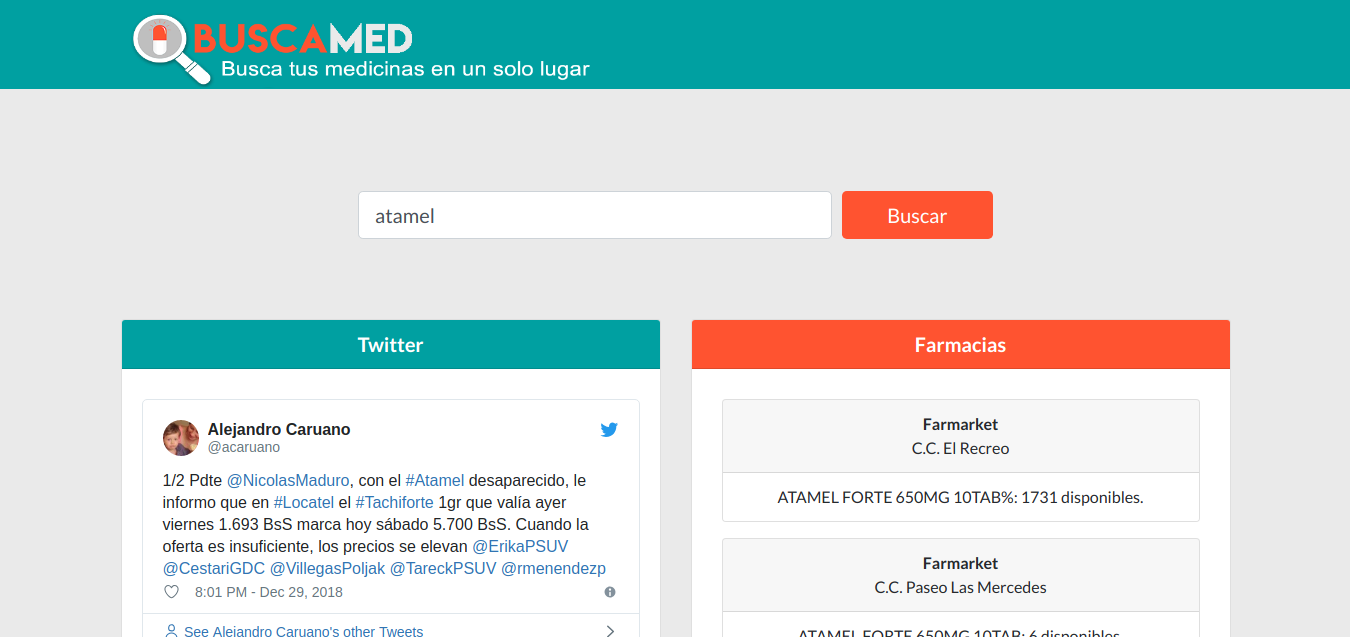
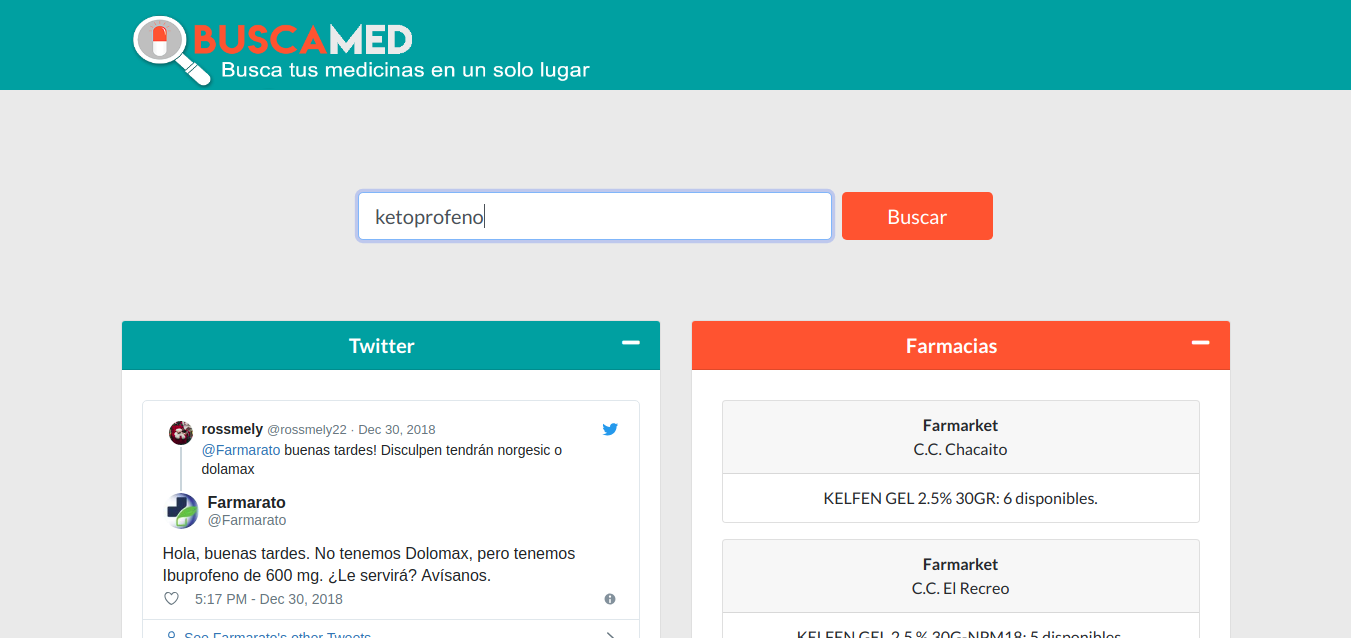
Agrega imagen y arregla links

diff --git a/docs/rest/views.md b/docs/rest/views.md
@@ -40,9 +40,9 @@ Función reemplazada por [buscaTwitter](#buscatwitter), que se basa en esta para
 
 **Versión 2.0**<br>
 Función que busca los Tweets asociados a una medicina y todos sus equivalentes en la BD.<br>
-Si consigue Tweets en la BD, revisa si el Tweet más reciente fue buscado hace menos tiempo que los minutos definidos en la variable del módulo de configuración ["TWEET_UPDATE"](/buscaMedServer/buscaMedServer/#settingspy).<br>
-Si fue buscado hace menos tiempo que dichos minutos, devuelve el query de la BD. En caso contrario, utiliza la función [threadingTweets](/classifier/classifier/#threadingtweets) del módulo *classifier* para buscar y clasificar Tweets a partir del id mas reciente de los Tweets en la BD.<br>
-Si no consigue Tweets en la BD, realiza la búsqueda con la función [threadingTweets](/classifier/classifier/#threadingtweets) mencionada previamente.<br>
+Si consigue Tweets en la BD, revisa si el Tweet más reciente fue buscado hace menos tiempo que los minutos definidos en la variable del módulo de configuración ["TWEET_UPDATE"](../../buscaMedServer/buscaMedServer/#settingspy).<br>
+Si fue buscado hace menos tiempo que dichos minutos, devuelve el query de la BD. En caso contrario, utiliza la función [threadingTweets](../../classifier/classifier/#threadingtweets) del módulo *classifier* para buscar y clasificar Tweets a partir del id mas reciente de los Tweets en la BD.<br>
+Si no consigue Tweets en la BD, realiza la búsqueda con la función [threadingTweets](../../classifier/classifier/#threadingtweets) mencionada previamente.<br>
 Recibe el nombre de una medicina, y devuelve una lista de Tweets y un booleano que define si se consiguió la medicina.
 
     def buscaTwitter(medName) -> (QuerySet<Tweet>, bool)
@@ -70,7 +70,7 @@ Función que busca el componente activo de un medicamento en los inventarios de 
 
 **Versión 2.0**<br>
 Clase que hereda de viewsets.ReadOnlyModelViewSet del módulo *viewsets* del Django Rest Framework. Define la tabla de la BD que mostrará y el serializador que convertira las filas de la tabla en JSON.<br>
-La función *list()* define la respuesta JSON a mostrar. Utiliza la función buscaTwitter y el serializador [TweetSerializer](/rest/serializers/#clase-tweetserializer).
+La función *list()* define la respuesta JSON a mostrar. Utiliza la función buscaTwitter y el serializador [TweetSerializer](../../rest/serializers/#clase-tweetserializer).
 
     class TweetViewSet(viewsets.ReadOnlyModelViewSet):
         queryset = Tweet.objects.all()
@@ -84,7 +84,7 @@ La función *list()* define la respuesta JSON a mostrar. Utiliza la función bus
 
 **Versión 2.0**<br>
 Clase que hereda de viewsets.ReadOnlyModelViewSet del módulo *viewsets* del Django Rest Framework. Define la tabla de la BD que mostrará y el serializador que convertira las filas de la tabla en JSON.<br>
-La función *list()* define la respuesta JSON a mostrar. Utiliza la función [retrieveInventory](#retrieveinventory) y el serializador [InventorySerializer](/stores/serializers/#clase-inventoryserializer).
+La función *list()* define la respuesta JSON a mostrar. Utiliza la función [retrieveInventory](#retrieveinventory) y el serializador [InventorySerializer](../../stores/serializers/#clase-inventoryserializer).
 
     class StoresViewSet(viewsets.ReadOnlyModelViewSet):
         queryset = store.ProductosPorTienda.objects.all()
@@ -97,7 +97,7 @@ La función *list()* define la respuesta JSON a mostrar. Utiliza la función [re
 #### Clase WebViewSet:
 
 **Versión 2.0**<br>
-Clase que hereda de viewsets.ViewSet del módulo *viewsets* del Django Rest Framework. No necesita definir una tabla en la BD ni un seralizador, porque las herramientas del módulo [WebCrawler](/webcrawler/webcrawler/) ya devuelven un objeto compatible con JSON.<br>
+Clase que hereda de viewsets.ViewSet del módulo *viewsets* del Django Rest Framework. No necesita definir una tabla en la BD ni un seralizador, porque las herramientas del módulo [WebCrawler](../../webcrawler/webcrawler/) ya devuelven un objeto compatible con JSON.<br>
 La función *list()* realiza las búsquedas, las concatena y las devuelve en la respuesta.
 
     class WebViewSet(viewsets.ViewSet):

diff --git a/docs/stores/js/homeSearch.md b/docs/stores/js/homeSearch.md
@@ -1,6 +1,6 @@
 # Módulo: stores-homeSearch.js
 
-En este módulo se encuentran las funciones de JavaScript y jQuery que permiten hacer una búsqueda dinámica en la página de inicio, llamando al servidor [REST](/rest/views/).
+En este módulo se encuentran las funciones de JavaScript y jQuery que permiten hacer una búsqueda dinámica en la página de inicio, llamando al servidor [REST](../../../rest/views/).
 
 **Autores**
 
@@ -26,7 +26,7 @@ Hace la búsqueda a partir del valor escrito en *#searchBox* y llama a las funci
 
 #### ajaxBuscamedTweets:
 
-Función que recibe el nombre de una medicina y utiliza el módulo *ajax* de jQuery para hacer un llamado al [controlador de búsqueda en Twitter](/rest/views/#clase-tweetviewset) del servidor REST. Con el resultado, llama a la función [ajaxTwitter](#ajaxtwitter) para incrustar el tweet con el formato de Twittter.
+Función que recibe el nombre de una medicina y utiliza el módulo *ajax* de jQuery para hacer un llamado al [controlador de búsqueda en Twitter](../../../rest/views/#clase-tweetviewset) del servidor REST. Con el resultado, llama a la función [ajaxTwitter](#ajaxtwitter) para incrustar el tweet con el formato de Twittter.
 
     function ajaxBuscamedTweets(med) -> None
 
@@ -38,7 +38,7 @@ Función que recibe el url de un tweet, y utiliza el módulo *ajax* de jQuery pa
 
 #### ajaxBuscamedWeb:
 
-Función que recibe el nombre de una medicina y utiliza el módulo *ajax* de jQuery para hacer un llamado al [controlador de búsqueda en web](/rest/views/#clase-webviewset) del servidor REST. Con el resultado, llama a la función [htmlForWeb](#htmlforweb) para obtener el formato en HTML predeterminado e incrustar el resultado.
+Función que recibe el nombre de una medicina y utiliza el módulo *ajax* de jQuery para hacer un llamado al [controlador de búsqueda en web](../../../rest/views/#clase-webviewset) del servidor REST. Con el resultado, llama a la función [htmlForWeb](#htmlforweb) para obtener el formato en HTML predeterminado e incrustar el resultado.
 
     function ajaxBuscamedWeb(med) -> HTML: inserta resultado en div de farmacias
 
@@ -50,7 +50,7 @@ Función que recibe el objeto obtenido por [ajaxBuscamedWeb](#ajaxbuscamedweb), 
 
 #### ajaxBuscamedStores:
 
-Función que recibe el nombre de una medicina y utiliza el módulo *ajax* de jQuery para hacer un llamado al [controlador de búsqueda en farmacias adscritas](/rest/views/#clase-storesviewset) del servidor REST. Con el resultado, llama a la función [htmlForStores](#htmlforstores) para obtener el formato en HTML predeterminado e incrustar el resultado.
+Función que recibe el nombre de una medicina y utiliza el módulo *ajax* de jQuery para hacer un llamado al [controlador de búsqueda en farmacias adscritas](../../../rest/views/#clase-storesviewset) del servidor REST. Con el resultado, llama a la función [htmlForStores](#htmlforstores) para obtener el formato en HTML predeterminado e incrustar el resultado.
 
     function ajaxBuscamedStores(med) -> HTML: inserta resultado en div de farmacias
 

diff --git a/docs/stores/templates.md b/docs/stores/templates.md
@@ -1,6 +1,6 @@
 # Módulo: stores-templates
 
-En este módulo, se encuentran las vistas de la aplicación web, así como la vista pública de búsqueda. Estas vistas se encuentran dentro de la carpeta *stores/templates* y son archivos HTML con variables renderizadas por los constroladores de [stores-views](/stores/views/).
+En este módulo, se encuentran las vistas de la aplicación web, así como la vista pública de búsqueda. Estas vistas se encuentran dentro de la carpeta *stores/templates* y son archivos HTML con variables renderizadas por los constroladores de [stores-views](../../stores/views/).
 
 ## index.html
 
@@ -10,15 +10,15 @@ En este módulo, se encuentran las vistas de la aplicación web, así como la vi
 
 **Descripción**
 
-Página de acceso público donde se le permite al usuario realizar búsquedas de medicinas utilizando todos los servicios ofrecidos por el servidor [REST](/rest/views/#controladores-de-las-vistas).
+Página de acceso público donde se le permite al usuario realizar búsquedas de medicinas utilizando todos los servicios ofrecidos por el servidor [REST](../../rest/views/#controladores-de-las-vistas).
 
-Utiliza [homeSearch.js](/stores/js/homeSearch) para realizar las búsquedas.
+Utiliza [homeSearch.js](../../stores/js/homeSearch) para realizar las búsquedas.
 
 #### Vista Previa:
   
-![index1](/img/Index1.png)
+![index1](../../img/Index1.png)
 
-![index2](/img/Index2.png)
+![index2](../../img/Index2.png)
 
 ## login.html
 
@@ -32,7 +32,7 @@ Página de acceso publico donde se le permite al usuario iniciar sesión al sist
 
 #### Vista Previa:
 
-![index1](/img/Login.png)
+![index1](../../img/Login.png)
 
 
 ## readFile.html
@@ -47,8 +47,8 @@ Página de acceso restringido a usarios de farmacias donde se le permite al usua
 
 El archivo CSV debe tener las siguientes columnas: activo | medicina | presentacion | disponibilidad.
 
-Utiliza [readFile.js](/stores/js/readFile) para leer el archivo. 
+Utiliza [readFile.js](../../stores/js/readFile) para leer el archivo. 
 
 #### Vista Previa:
   
-![index1](/img/readFile.png)
+![index1](../../img/readFile.png)

diff --git a/docs/stores/js/readFile.md b/docs/stores/js/readFile.md
@@ -1,6 +1,6 @@
 # Módulo: stores-readFile.js
 
-En este módulo se encuentran las funciones de JavaScript y jQuery que permiten leer un archivo CSV y enviarlo por POST al controlador del módulo [stores](/stores/views/#clase-storesview) que permite agregar un inventario a la BD.
+En este módulo se encuentran las funciones de JavaScript y jQuery que permiten leer un archivo CSV y enviarlo por POST al controlador del módulo [stores](../../../stores/views/#clase-storesview) que permite agregar un inventario a la BD.
 
 **Autores**
 
@@ -14,6 +14,6 @@ Función que recibe datos de un archivo CSV y revisa que tenga las columnas: *ac
 
 #### readCSV:
 
-Función que obtiene el valor del archivo escrito en *#fileName*, revisa que sea CSV, lee el archivo con el módulo *FileReader* de JavaScript, convierte a objeto JSON con el módulo *csv.toObjects* de jQuery.CSV, revisa las columnas con [checkData](#checkdata) y envía el objeto en forma de *String* al controlador del módulo [stores](/stores/views/#clase-storesview) a través de una petición POST.
+Función que obtiene el valor del archivo escrito en *#fileName*, revisa que sea CSV, lee el archivo con el módulo *FileReader* de JavaScript, convierte a objeto JSON con el módulo *csv.toObjects* de jQuery.CSV, revisa las columnas con [checkData](#checkdata) y envía el objeto en forma de *String* al controlador del módulo [stores](../../../stores/views/#clase-storesview) a través de una petición POST.
 
     function readCSV() -> HTML: asigna variable "#csv" y envia formulario "#Login" 

diff --git a/docs/stores/views.md b/docs/stores/views.md
@@ -47,7 +47,7 @@ La función post se llama cuando se recibe una petición POST, en este caso, cua
 #### Clase HomeView:
 
 Clase que hereda de TemplateView del módulo *views.generic* de Django. Define las acciones a realizar cuando se accede a la página de inicio y de búsqueda.<br>
-Hasta ahora, todo el trabajo de la página de inicio se encuentra del lado del cliente, puede conseguir más información en [templates](/stores/templates/#indexhtml).
+Hasta ahora, todo el trabajo de la página de inicio se encuentra del lado del cliente, puede conseguir más información en [templates](../../stores/templates/#indexhtml).
 
 
     class HomeView(TemplateView):

diff --git a/docs/about.md b/docs/about.md
@@ -1,6 +1,6 @@
 # About
 <p style="text-align: center">
-<img src="/img/cebolla.png" style="width:250px">
+<img src="../img/cebolla.png" style="width:250px">
 </p>
 
 Proyecto realizado en la **Universidad Simón Bolívar** para la materia *Miniproyecto de Desarrollo de Software* (EP4793) del trimestre **Sep-Dic 2018**.
